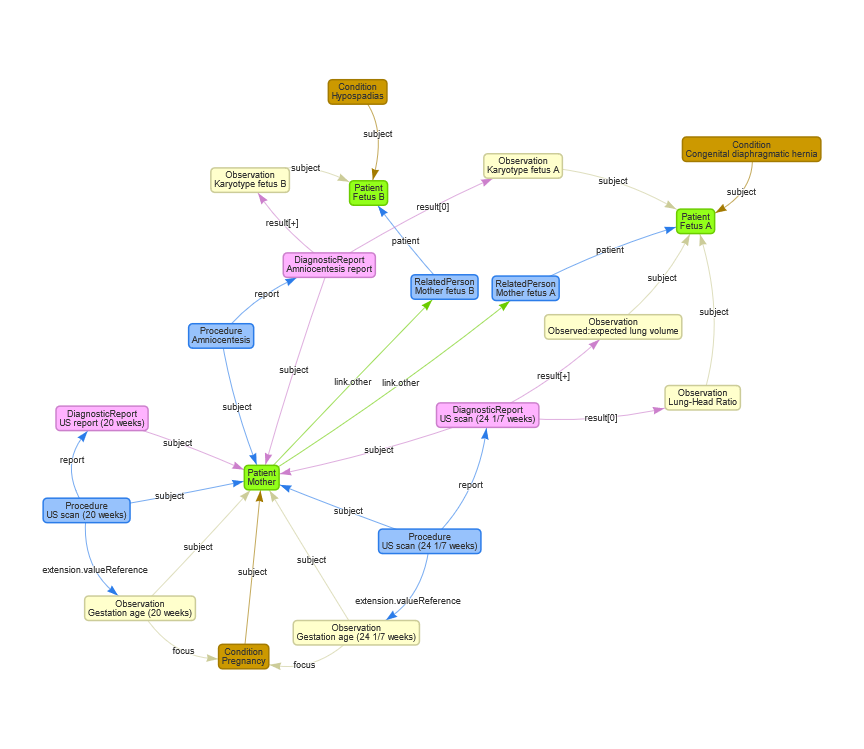
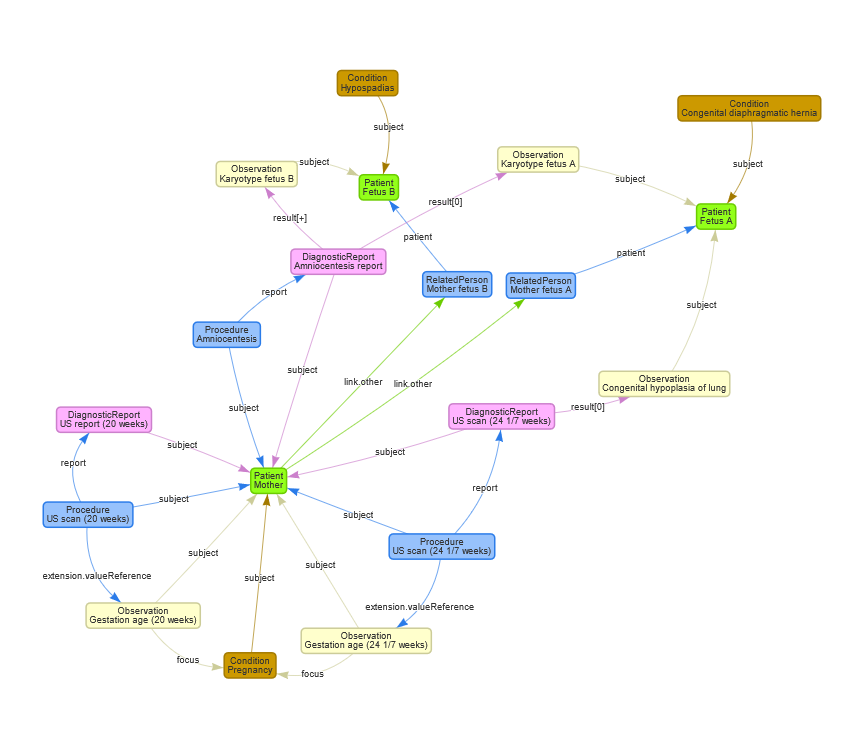
change example uc 2 hypoplasia of lung instead of lhr and lung volume

diff --git a/input/pagecontent/use-case2-result-reporting.md b/input/pagecontent/use-case2-result-reporting.md
@@ -8,7 +8,7 @@ The data  of the results can be categorised in 3 classes:
 
 ### Narrative
 #### Congenital Diaphragmatic Hernia in Twin Pregnancy
-28 yo Gravida 1 Para 0 Mother with a dichorionic/diamniotic twin pregnancy, fetus A antenatally diagnosed with left congenital diaphragmatic hernia (CDH) containing small bowel, spleen and stomach in the left hemithorax on level 2 ultrasound at 20 weeks. Evaluation at 24 1/7 weeks revealed Lung-Head Ratio (LHR) of 0.67  via ultrasound and an observed:expected lung volume 0.21 via MRI. Normal karyotype - 46 XY on amniocentesis for both fetuses. fetus B noted to have hypospadias on antenatal ultrasound. 
+28 yo Gravida 1 Para 0 Mother with a dichorionic/diamniotic twin pregnancy, fetus A antenatally diagnosed with left congenital diaphragmatic hernia (CDH) containing small bowel, spleen and stomach in the left hemithorax on level 2 ultrasound at 20 weeks. Evaluation at 24 1/7 weeks revealed congenital hypoplasia of lung via ultrasound. Normal karyotype - 46 XY on amniocentesis for both fetuses. fetus B noted to have hypospadias on antenatal ultrasound. 
   
 ### Graph
 ![Use case 2](usecase2.png "Use case 2 Result Reporting")
